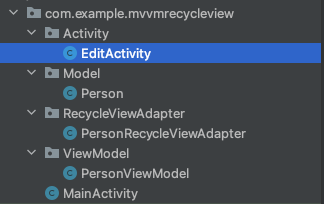
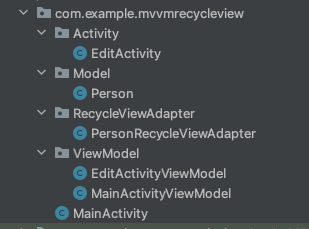
20-06-2022 update demo project

diff --git a/MVVMRecycleView/app/src/main/java/com/example/mvvmrecycleview/Activity/EditActivity.java b/MVVMRecycleView/app/src/main/java/com/example/mvvmrecycleview/Activity/EditActivity.java
@@ -1,28 +1,32 @@
 package com.example.mvvmrecycleview.Activity;
 
 import androidx.appcompat.app.AppCompatActivity;
-import androidx.lifecycle.Observer;
 import androidx.lifecycle.ViewModelProvider;
 
 import android.os.Bundle;
 import android.widget.Button;
 import android.widget.EditText;
-import android.widget.Toast;
 
 import com.example.mvvmrecycleview.MainActivity;
-import com.example.mvvmrecycleview.Model.Person;
 import com.example.mvvmrecycleview.R;
-import com.example.mvvmrecycleview.ViewModel.PersonViewModel;
+import com.example.mvvmrecycleview.ViewModel.EditActivityViewModel;
+import com.example.mvvmrecycleview.ViewModel.MainActivityViewModel;
 
-import java.lang.ref.WeakReference;
-import java.util.ArrayList;
-
+/**
+ * ? 2 activities do not use the same viewModel.
+ * Each activity have its own view model.
+ *
+ * ? we have to store data's state. For example, rotating screen could kill activity's life circle
+ * Therefore, storing data's state is a important mission.
+ */
 public class EditActivity extends AppCompatActivity {
 
     private EditText txtName;
     private EditText txtPhone;
     private Button buttonEdit;
     private Button buttonRemove;
+
+    private EditActivityViewModel viewModel;
 
     @Override
     protected void onCreate(Bundle savedInstanceState) {
@@ -42,18 +46,19 @@ public class EditActivity extends AppCompatActivity {
         setupScreen(name, phone);
 
 
+        /**declare "EditViewModel" to be sure abide by MVVM architecture*/
+        viewModel = new ViewModelProvider(this).get(EditActivityViewModel.class);
 
         /*Step 3*/
         buttonEdit.setOnClickListener(view->{
             String modifiedName = txtName.getText().toString();
             String modifiedPhone = txtPhone.getText().toString();
 
-            MainActivity.getmInstanceActivity().updatePerson(Integer.parseInt(position), modifiedName, modifiedPhone);
-            Toast.makeText(this, "Updated Successfully !", Toast.LENGTH_LONG).show();
+            viewModel.modify(position, modifiedName, modifiedPhone);
         });
 
         buttonRemove.setOnClickListener(view -> {
-            MainActivity.getmInstanceActivity().eradicatePerson(Integer.parseInt(position));
+            viewModel.eradicate(position);
             finish();
         });
     }

diff --git a/MVVMRecycleView/app/src/main/java/com/example/mvvmrecycleview/MainActivity.java b/MVVMRecycleView/app/src/main/java/com/example/mvvmrecycleview/MainActivity.java
@@ -12,17 +12,21 @@ import android.widget.Button;
 
 import com.example.mvvmrecycleview.Model.Person;
 import com.example.mvvmrecycleview.RecycleViewAdapter.PersonRecycleViewAdapter;
-import com.example.mvvmrecycleview.ViewModel.PersonViewModel;
+import com.example.mvvmrecycleview.ViewModel.MainActivityViewModel;
 
 import java.lang.ref.WeakReference;
-import java.sql.SQLOutput;
 import java.util.ArrayList;
-
+/**
+ * ? 2 activities do not use the same viewModel.
+ * Each activity have its own view model.
+ *
+ * ? we have to store data's state. For example, rotating screen could kill activity's life circle
+ * Therefore, storing data's state is a important mission.
+ */
 public class MainActivity extends AppCompatActivity {
 
     private RecyclerView recyclerView;
-    private ArrayList<Person> objects = new ArrayList<>();
-    private PersonViewModel viewModel;
+    private MainActivityViewModel viewModel;
 
     private Button buttonCreate;
     private PersonRecycleViewAdapter adapter;
@@ -61,7 +65,7 @@ public class MainActivity extends AppCompatActivity {
 
     private void setupViewModel()
     {
-        viewModel = new ViewModelProvider(this).get(PersonViewModel.class);
+        viewModel = new ViewModelProvider(this).get(MainActivityViewModel.class);
 
         viewModel.initialize();
 
@@ -69,12 +73,6 @@ public class MainActivity extends AppCompatActivity {
             @SuppressLint("NotifyDataSetChanged")
             @Override
             public void onChanged(ArrayList<Person> people) {
-
-                if(people.size() < 0)
-                {
-                    viewModel.initialize();
-                }
-
                 setupRecycleView(people);
             }
         });
@@ -109,7 +107,6 @@ public class MainActivity extends AppCompatActivity {
     @SuppressLint("NotifyDataSetChanged")
     public void updatePerson(int position, String name, String phone)
     {
-        adapter.notifyItemChanged(position);
         viewModel.modify(position, name, phone);
     }
 
@@ -119,7 +116,6 @@ public class MainActivity extends AppCompatActivity {
      * */
     public void eradicatePerson(int position)
     {
-        adapter.notifyItemRemoved(position);
         viewModel.eradicate(position);
     }
 }

diff --git a/MVVMRecycleView/app/src/main/java/com/example/mvvmrecycleview/ViewModel/EditActivityViewModel.java b/MVVMRecycleView/app/src/main/java/com/example/mvvmrecycleview/ViewModel/EditActivityViewModel.java
@@ -1,0 +1,40 @@
+package com.example.mvvmrecycleview.ViewModel;
+
+import android.widget.Toast;
+
+import androidx.lifecycle.ViewModel;
+
+import com.example.mvvmrecycleview.MainActivity;
+
+public class EditActivityViewModel extends ViewModel {
+
+    /**
+     * @author Phong-Kaster
+     * @param position is the item's location
+     * @param name is the newer name
+     * @param phone is the latest phone
+     */
+    public void modify(String position, String name, String phone)
+    {
+        int integerPosition = Integer.parseInt(position);
+
+        if( integerPosition < 0 || name.length() < 1|| phone.length() < 10)
+            return;
+
+        MainActivity.getmInstanceActivity().updatePerson(integerPosition, name, phone);
+    }
+
+    /***
+     * @author Phong-Kaster
+     * @param position is the location of removed item
+     */
+    public void eradicate(String position)
+    {
+        int interPosition = Integer.parseInt(position);
+        if( interPosition < 0)
+            return;
+
+        MainActivity.getmInstanceActivity().eradicatePerson(interPosition);
+    }
+
+}

diff --git a/MVVMRecycleView/app/src/main/java/com/example/mvvmrecycleview/ViewModel/MainActivityViewModel.java b/MVVMRecycleView/app/src/main/java/com/example/mvvmrecycleview/ViewModel/MainActivityViewModel.java
@@ -8,7 +8,7 @@ import com.example.mvvmrecycleview.Model.Person;
 
 import java.util.ArrayList;
 
-public class PersonViewModel extends ViewModel {
+public class MainActivityViewModel extends ViewModel {
 
     private MutableLiveData<ArrayList<Person>> objects = new MutableLiveData<>();
     private ArrayList<Person> people = new ArrayList<>();
@@ -29,7 +29,6 @@ public class PersonViewModel extends ViewModel {
     {
         Person person1 = new Person("Phong", "0366253623");
         people.add(person1);
-
         objects.setValue(people);
     }
 
@@ -82,4 +81,5 @@ public class PersonViewModel extends ViewModel {
         people.remove(position);
         objects.setValue(people);
     }
+
 }
